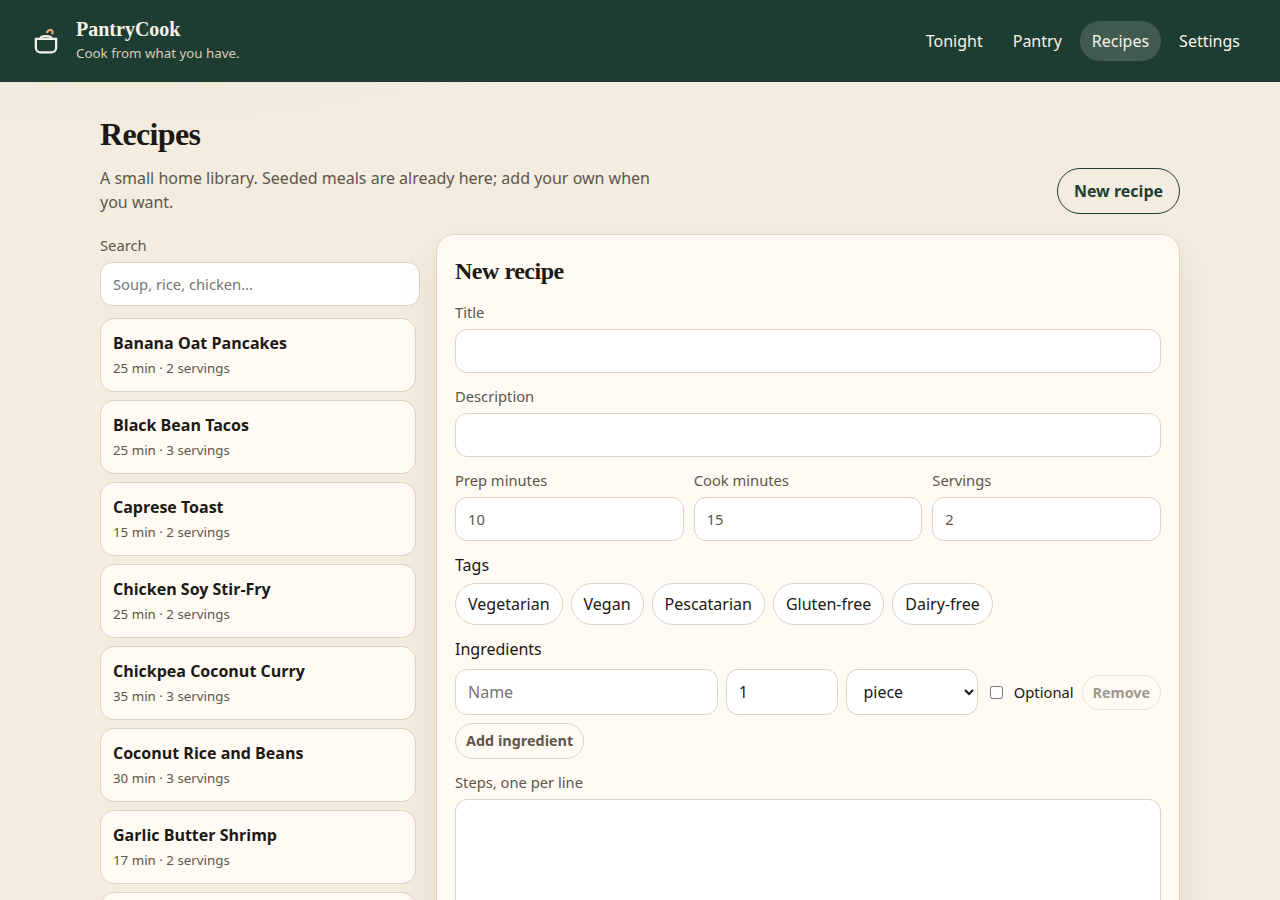
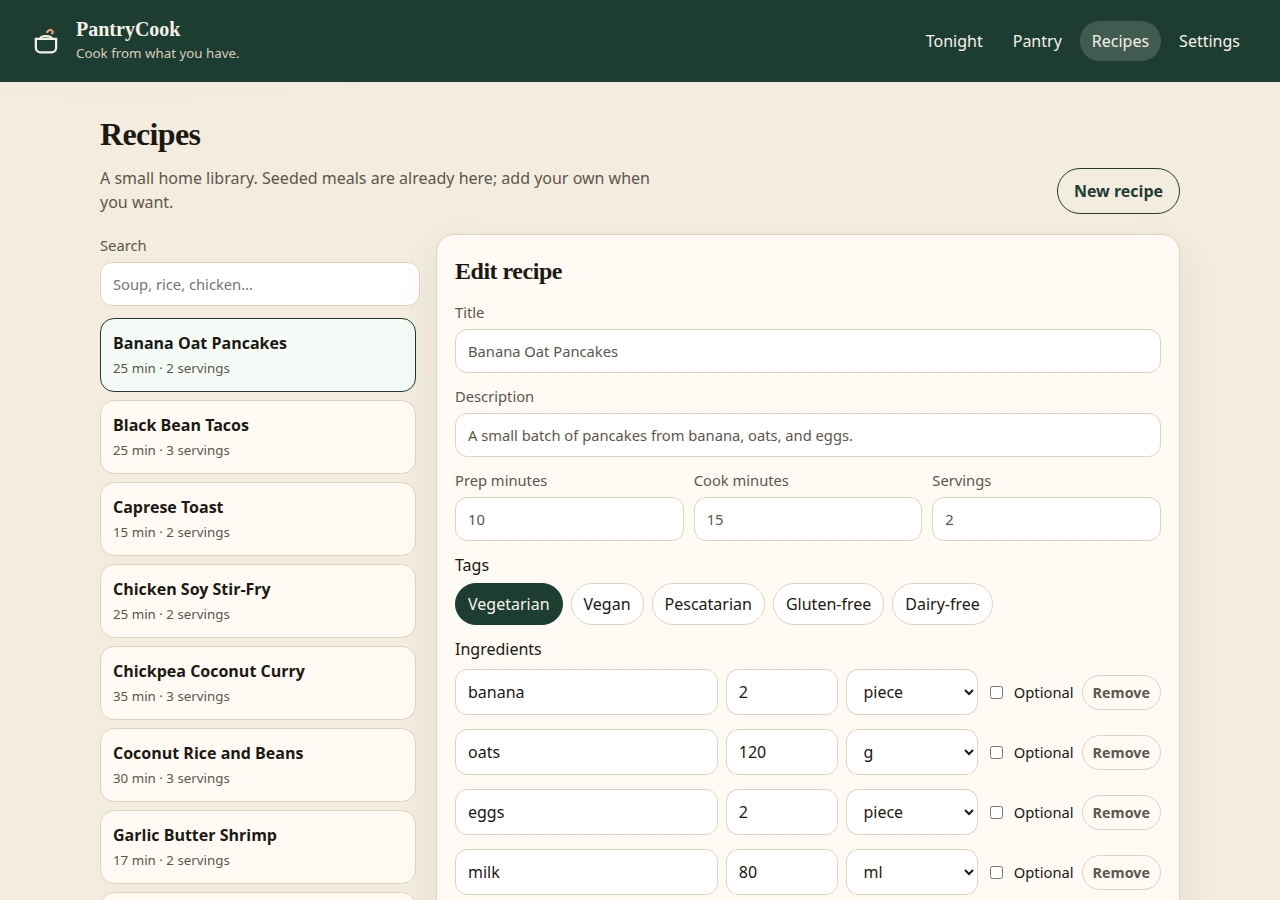
Tighten the README and refresh UI screenshots
Put the Tonight, Pantry, and Settings captures under the tagline so a visitor can see the app before the quick start.

diff --git a/README.md b/README.md
@@ -1,20 +1,16 @@
 # PantryCook
 
-**Cook from what you have.**
+**Cook from what you have.** · [Nandan Priyadarshi](https://github.com/nandanosql)
 
-PantryCook is a self-hosted, open-source meal app. You tell it what is in the kitchen and what you will not cook tonight. It ranks meals you can make, shows what you are missing, and writes the shopping gap.
+![Tonight page: meals ranked from the sample pantry, with pantry match and use-soon items](screenshots/tonight.png)
 
-It is pantry-first. A recipe library is useful, but it does not decide dinner.
+| Pantry | Settings |
+| --- | --- |
+| ![Pantry page with items, quantities, and expiry dates](screenshots/pantry.png) | ![Settings page for diet, time, servings, and ingredients to skip](screenshots/settings.png) |
 
-Built by [Nandan Priyadarshi](https://github.com/nandanosql).
-
-## The problem
-
-Home cooks already know a handful of meals. The hard part is matching those meals to the food that needs using, the time you have, and the ingredients you are avoiding. PantryCook is that decision, on your own machine.
-
-- Rank meals by how much of each recipe is already in the pantry, with a boost for food that expires soon.
-- Runs fully offline. If you set an API key, each suggestion can include a short cook tip.
-- One Docker Compose command. SQLite by default, no account system in v0.1.
+- Ranks meals from what is already in the kitchen, and lists the shopping gap.
+- Filters by diet, time, servings, and ingredients you will not use.
+- Self-hosted with Docker Compose. SQLite by default. No account in v0.1.
 
 ## Quick start
 
@@ -25,61 +21,22 @@ cp .env.example .env
 docker compose up --build
 ```
 
-| Surface | URL |
-| --- | --- |
-| Web | http://localhost:3000 |
-| API | http://localhost:8000 |
-| Health | http://localhost:8000/health |
+- Web: http://localhost:3000
+- API: http://localhost:8000
 
-Open the web app, choose **Load sample pantry**, then **Suggest meals**. Seed recipes load on first boot when the recipe table is empty. The SQLite file lives in the `pantrycook-data` volume at `/data/pantrycook.db`.
+Open the site, choose **Load sample pantry**, then **Suggest meals**. Seed recipes load on first boot when the library is empty. v0.1 is single-user and has no login, so keep the host on a private network.
 
-v0.1 is **single-user and has no authentication**. Anyone who can reach the site can change the pantry. Do not put it on the public internet without a reverse proxy and access control you trust.
+## How suggest works
 
-### Local development
+The matcher in `backend/app/services/matcher.py` always runs offline. It drops recipes that miss a diet rule, run past the time limit, or use an excluded ingredient, then scores the rest by how much of each required ingredient you already have. Food that expires within three days gets a small boost. Optional ingredients never count against you.
 
-API (Python 3.12):
-
-```bash
-cd backend
-python -m venv .venv
-source .venv/bin/activate
-pip install -r requirements.txt
-uvicorn app.main:app --reload --port 8000
-```
-
-Web (the dev server proxies `/api` to port 8000):
-
-```bash
-cd frontend
-npm install
-npm run dev
-```
-
-Vite serves the UI at http://localhost:5173. Tests:
-
-```bash
-cd backend
-pytest -q
-```
+Set `OPENAI_API_KEY` for a one- or two-sentence cook tip on each card. `OPENAI_BASE_URL` and `OPENAI_MODEL` are optional. With no key, or if that call fails, the ranking still works and the tip stays empty.
 
 ## Stack
 
 - **API:** Python 3.12, FastAPI, SQLAlchemy, Pydantic
-- **Decision engine:** `backend/app/services/matcher.py` (always on) and `backend/app/services/llm.py` (optional)
 - **Web:** Vue 3, Vite, nginx in the container
-- **Data:** SQLite by default. Set `DATABASE_URL` to a Postgres URL (`postgresql+psycopg://...`) if you want that instead. The driver is included.
-
-## How suggest works
-
-`POST /suggest` reads the current pantry and the single constraint profile, then:
-
-1. Drops recipes that miss a diet rule, run longer than the time limit, or use an excluded ingredient. Vegan is stricter than vegetarian. Vegetarian meals still count as pescatarian. Vegan meals count as dairy-free. Gluten-free is only true when the recipe is tagged that way.
-2. Scores the rest by how much of each required ingredient you already have. Grams, millilitres, and spoons convert. Optional ingredients never count against you. If the units cannot be compared, a name match still counts, but the shopping line says to check the amount.
-3. Adds a small boost when a matched ingredient expires within three days, so food you should use up ranks higher.
-4. Returns the top meals with a score, matched ingredients, missing ingredients, a shopping delta scaled to your serving count, and a short explanation.
-5. If `OPENAI_API_KEY` is set, asks an OpenAI-compatible chat endpoint (`OPENAI_BASE_URL`, `OPENAI_MODEL`) for a one- or two-sentence tip. A missing key, or a failed call, leaves `llm_tip` empty. The ranking still works.
-
-Other routes: `GET /health`, full CRUD on `/pantry` and `/recipes`, and `GET`/`PUT /constraints`. `POST /pantry/sample` loads a demo kitchen without duplicating items you already stored.
+- **Data:** SQLite by default. Set `DATABASE_URL` to a Postgres URL (`postgresql+psycopg://...`) to use that instead. The driver is included.
 
 ## Roadmap
 
@@ -88,28 +45,10 @@ Other routes: `GET /health`, full CRUD on `/pantry` and `/recipes`, and `GET`/`P
 - **v0.4** — households and accounts
 - **v0.5** — cook mode with timers and step help
 
-Photo pantry and multi-user accounts are intentionally out of v0.1.
-
-## Screenshots
-
-![Tonight — ranked meals from the sample pantry](screenshots/tonight.png)
-
-![Pantry items with expiry](screenshots/pantry.png)
-
-![Recipe library](screenshots/recipes.png)
-
-![Constraints](screenshots/settings.png)
-
 ## Contributing
 
-See [CONTRIBUTING.md](CONTRIBUTING.md). Issues and pull requests are welcome. The license is MIT.
+Issues and pull requests are welcome. See [CONTRIBUTING.md](CONTRIBUTING.md).
 
-## Layout
+## License
 
-```
-backend/          FastAPI app, matcher, seed recipes, pytest
-frontend/         Vue 3 SPA
-docs/             getting started stub
-screenshots/      screenshot notes
-docker-compose.yml
-```
+[MIT](LICENSE). Copyright (c) 2026 [Nandan Priyadarshi](https://github.com/nandanosql).

diff --git a/screenshots/README.md b/screenshots/README.md
@@ -1,8 +1,8 @@
 # Screenshots
 
-These are from the v0.1 UI (sample pantry, default constraints):
+Captured from the running v0.1 UI (sample pantry, default constraints, 1280px desktop):
 
-- `tonight.png` — ranked meals, pantry match, and use-soon items
-- `pantry.png` — items with quantity and expiry
-- `recipes.png` — seeded library and editor
-- `settings.png` — diet, time, servings, and exclusions
+- `tonight.png` — Tonight, after **Suggest meals**, with ranked meal cards
+- `pantry.png` — pantry items with quantity and expiry
+- `settings.png` — diet, time, servings, and ingredients to skip
+- `recipes.png` — seeded library with a recipe open in the editor

diff --git a/CONTRIBUTING.md b/CONTRIBUTING.md
@@ -5,7 +5,7 @@ Thanks for looking at the project. PantryCook is [Nandan Priyadarshi](https://gi
 ## Development
 
 1. Fork the repo and create a branch.
-2. Backend setup and tests are in the [README](README.md#local-development). From `backend/`:
+2. From `backend/`:
 
    ```bash
    python -m venv .venv
